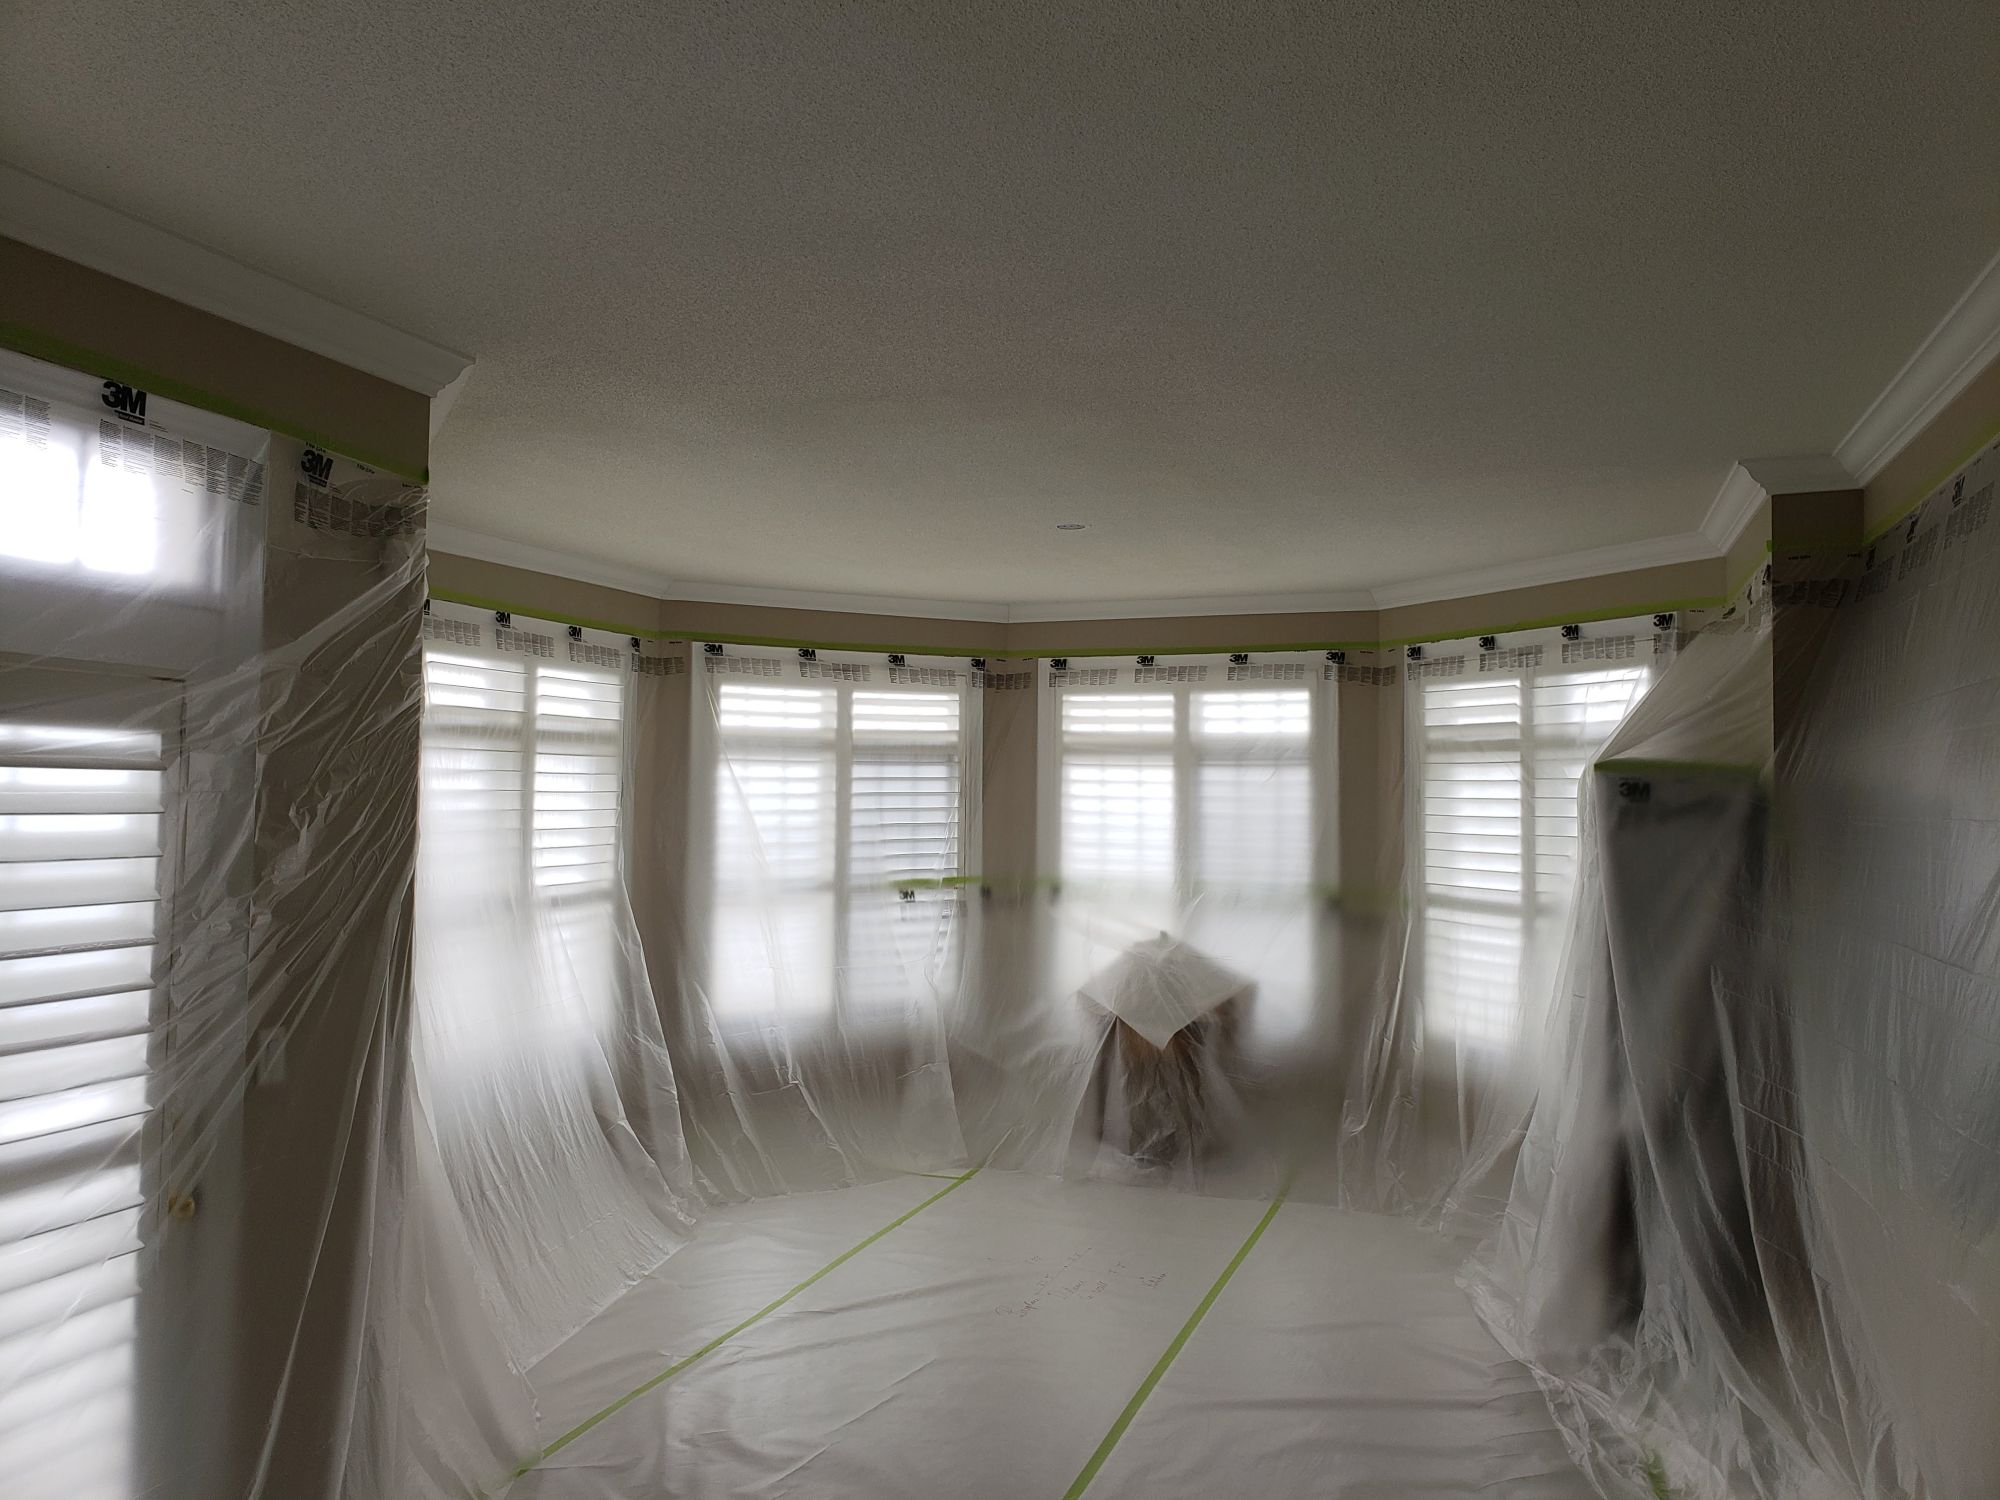
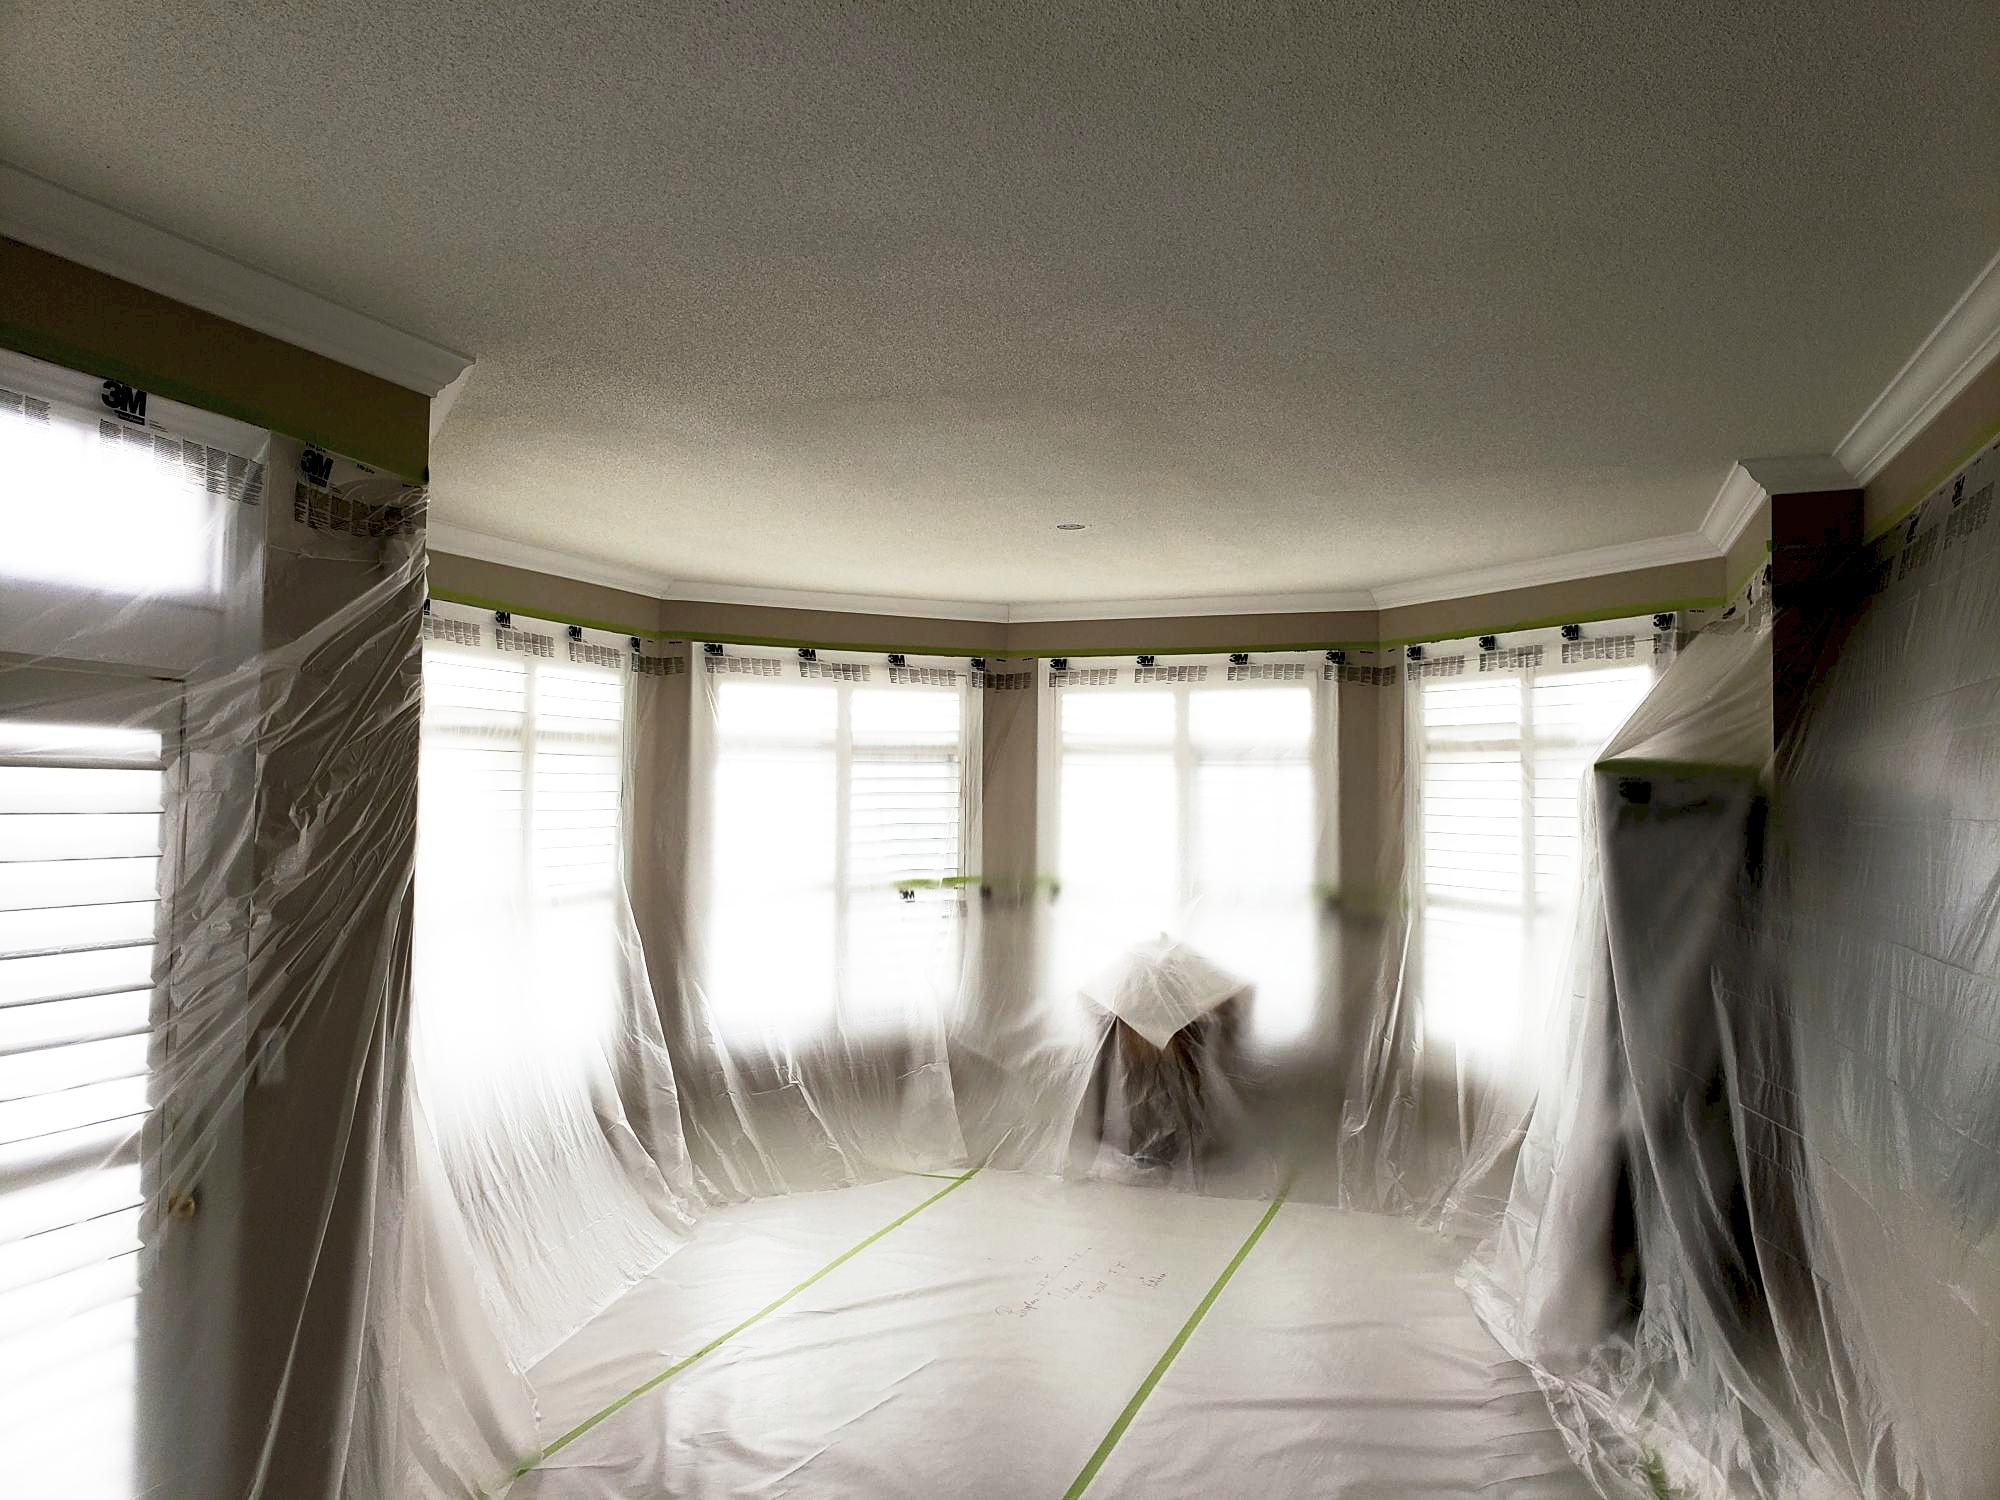
popcorn pics

diff --git a/src/components/Talk.tsx b/src/components/Talk.tsx
@@ -203,7 +203,7 @@ export default function Talk() {
 			class="relative mt-7 flex max-w-full flex-col items-start gap-2.5"
 			ref={(el) => (sensor = el!)}
 		>
-			<div class="relative h-11 w-full max-w-[19rem] xl:h-12">
+			<div class="relative h-12 w-full max-w-[21rem] xl:h-[3.25rem]">
 				<LetsTalk
 					aria-label="Start your project (Ctrl+/)"
 					class={cn(
@@ -212,7 +212,7 @@ export default function Talk() {
 						above()
 							? cn(
 									buttonVariants(),
-									'absolute h-11 w-full !border-[#e2556e] !bg-[#e2556e] px-4 text-base !text-white shadow-lg shadow-[#e2556e]/25 transition hover:!border-black hover:!bg-black focus-visible:outline-2 focus-visible:outline-offset-4 focus-visible:outline-[#e2556e] xl:h-12 xl:text-lg',
+									'absolute h-12 w-full !border-[#e2556e] !bg-[#e2556e] px-5 !text-white shadow-lg shadow-[#e2556e]/25 transition hover:!border-black hover:!bg-black focus-visible:outline-2 focus-visible:outline-offset-4 focus-visible:outline-[#e2556e] xl:h-[3.25rem]',
 								)
 							: cn(fabVariants({ variant: 'pill', background: 'accent' }), 'fixed top-0'),
 					)}
@@ -242,7 +242,7 @@ export default function Talk() {
 					/>
 				</LetsTalk>
 				<div
-					class={cn(buttonVariants(), 'invisible h-11 w-full px-4 text-base xl:h-12 xl:text-lg')}
+					class={cn(buttonVariants(), 'invisible h-12 w-full px-5 xl:h-[3.25rem]')}
 					aria-hidden="true"
 				/>
 			</div>
@@ -254,8 +254,8 @@ export default function Talk() {
 				Speak with a Project Specialist: {displayTelephone}
 			</a>
 			<p class="max-w-full font-sans text-sm leading-snug font-semibold text-black/55 sm:text-base">
-				By appointment {'\u2022'} Fully contained <br />
-				Designed for larger-scale projects
+				Photo estimates available {'\u2022'} Fully contained <br />
+				For homes, condos, and occupied spaces
 			</p>
 		</div>
 	);

diff --git a/src/components/Actions.tsx b/src/components/Actions.tsx
@@ -4,7 +4,7 @@ import type { ComponentProps } from 'solid-js';
 import { splitProps } from 'solid-js';
 
 export const buttonVariants = cva(
-	'touch-manipulation font-bold cursor-pointer select-none px-6 py-4 font-serif text-2xl xl:text-3xl leading-none rounded-md',
+	'touch-manipulation font-bold cursor-pointer select-none px-6 py-4 font-serif text-xl xl:text-2xl leading-none rounded-md',
 	{
 		variants: {
 			variant: {